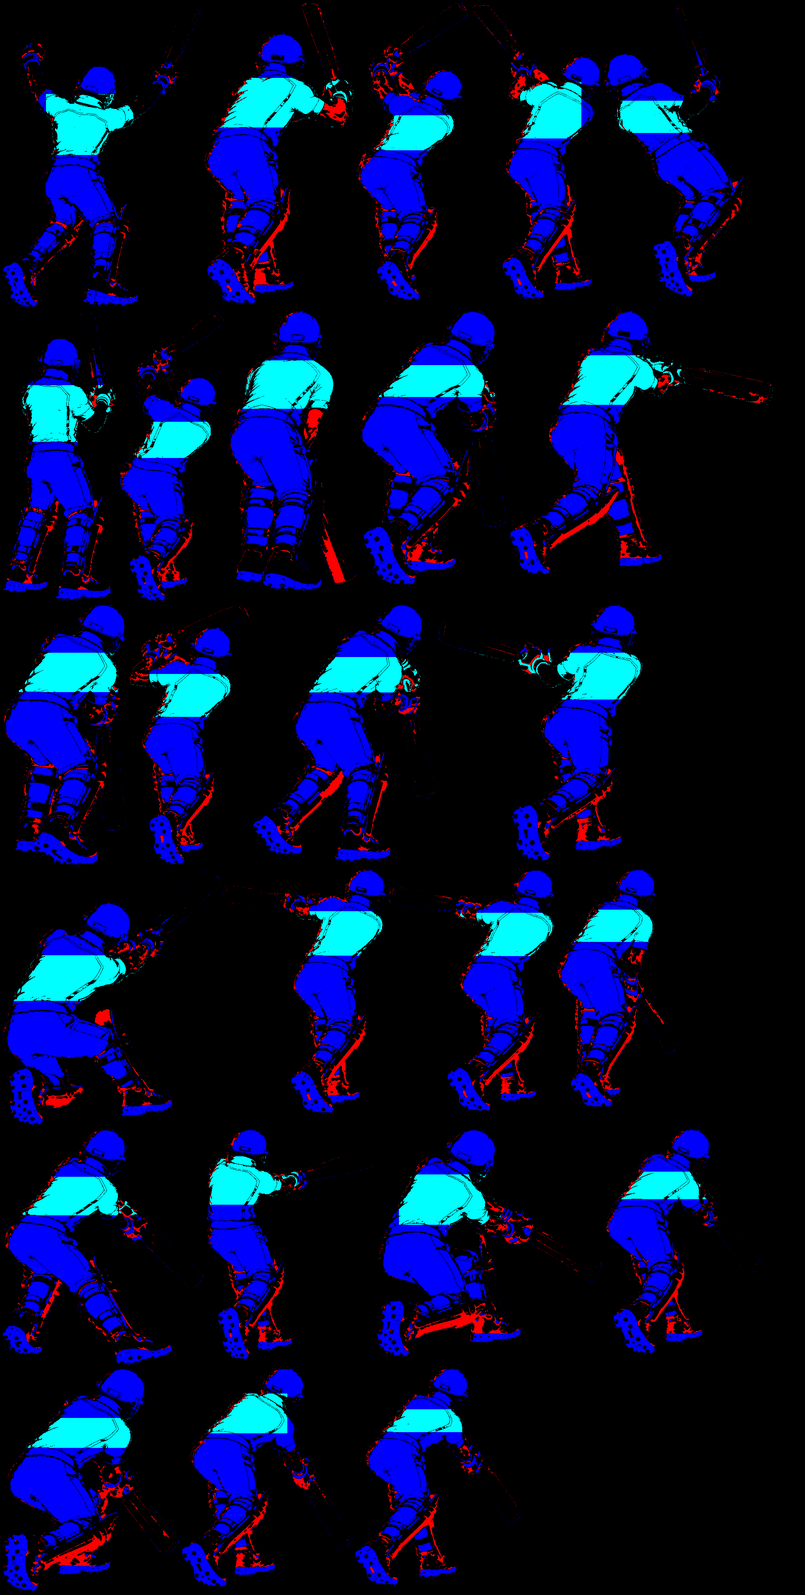
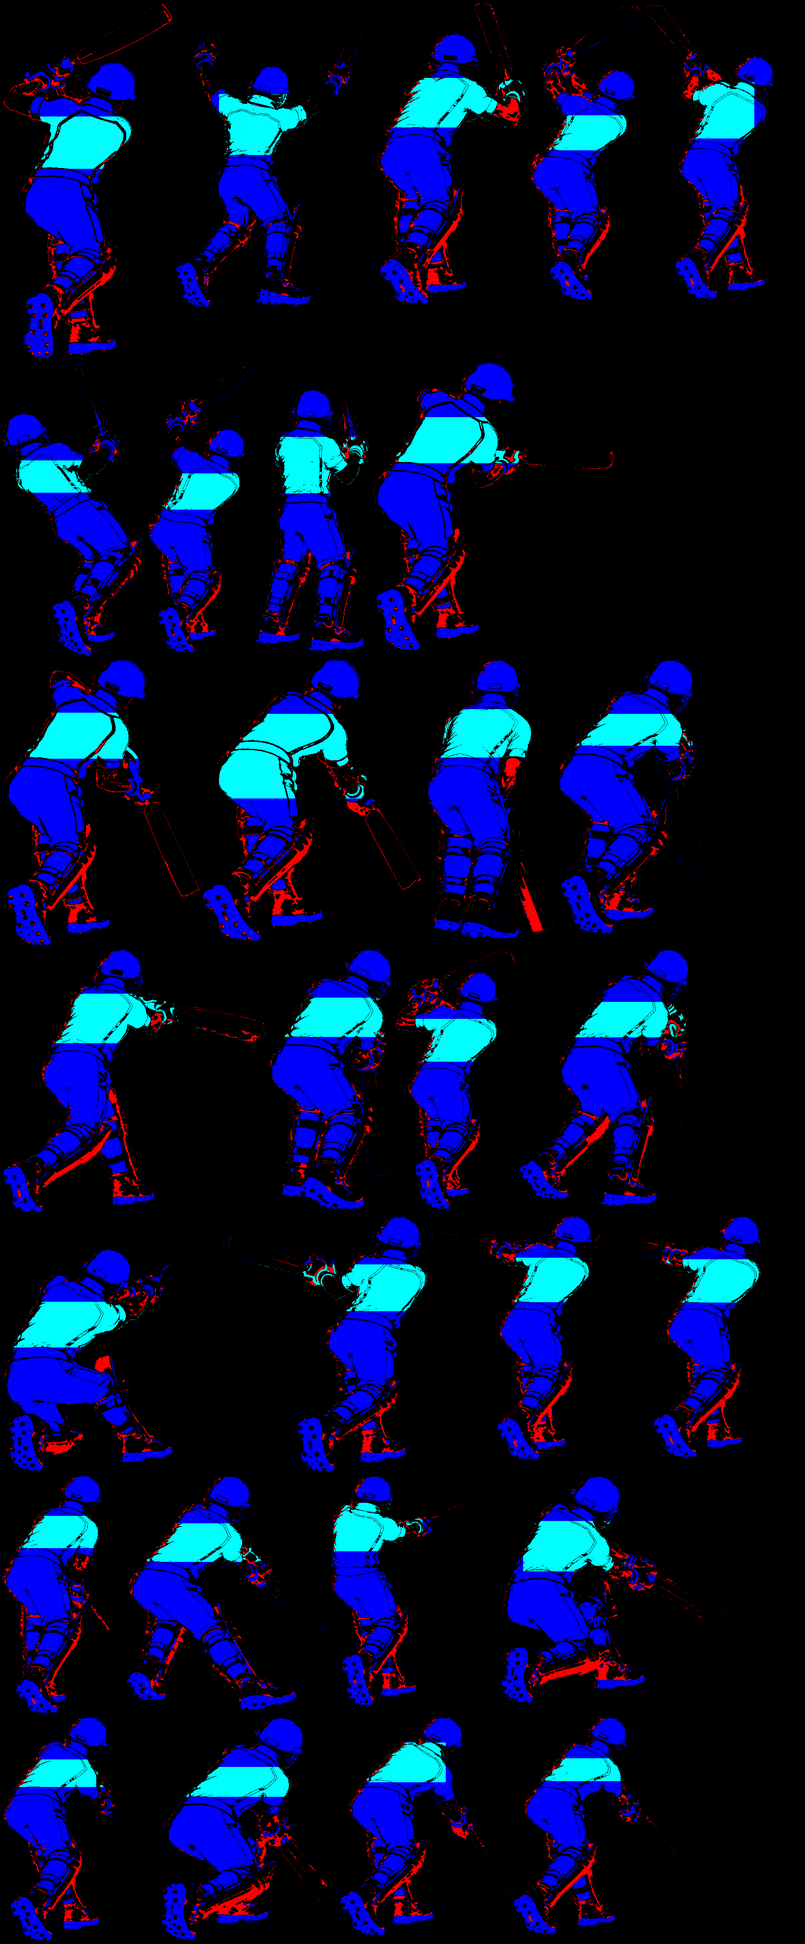
Batter: four new painted poses (off-side drive down/through/finish, flat cut) in the cover and cut swings
Claude-Session: https://claude.ai/code/session_01NK7tbrKg5PdA6fuyEUPXLd

diff --git a/js/kitsheets.js b/js/kitsheets.js
@@ -2,4 +2,4 @@
 // [x, y, w, h, feet x, feet y] in sheet order; place: the crest (front: [x, y, size, squash x,
 // squash y, tilt]) or the name-and-number print (back: [x, y, width, squash x, squash y, tilt,
 // name dx, dy, number dx, dy]) per frame; shading references for the repaint.
-export const KIT_SHEETS = {"front":{"frames":[[4,4,227,609,115.7,602],[235,4,204,603,108.5,596],[443,4,232,595,100.6,588],[679,4,181,601,90.4,594],[4,617,184,670,98.7,663],[192,617,204,657,107.8,650],[400,617,234,531,161.4,524],[638,617,200,532,104.9,525],[4,1291,201,557,90.7,550],[209,1291,216,579,105.9,572]],"place":[[153,167,36,1,1,0],[377,154,35,1,1,0],[591,154,35,1,1,0],[795,159,32,0.9,1,0],[142,863,31,0.95,1,5],[363,868,31,0.95,1,5],[549,761,34,1,0.85,0],[754,762,31,0.95,0.85,-5],[148,1439,35,1,1,0],[359,1454,36,1,1,0]],"refPx":580,"suit":[0.0376,0.2954,0.587],"trim":[0.5314,0.8456,0.9029],"skin":0.7306,"tones":[0.2955,0.2955,0.8423],"hair":{"beard_full":0.2269,"beard_goatee":0.1998,"beard_long":0.1906,"bun":0.2773,"buzz":0.2963,"cap":0.2815,"curly":0.2799,"dreads":0.2727,"long":0.2593,"messy":0.2999,"part":0.3383,"ponytail":0.2813,"spiky":0.2762},"size":[1024,1874]},"back":{"frames":[[4,4,223,593,111.2,586],[231,4,203,585,111.9,578],[438,4,226,585,125.1,578],[668,4,184,572,61.0,565],[4,601,172,628,61.9,621],[180,601,213,636,106.9,629],[397,601,240,538,146.8,531],[641,601,234,534,104.0,527],[4,1241,213,572,115.0,565],[221,1241,215,586,107.6,579]],"place":[[116.6,158.1,88.0,1.0,1.0,0.4,0,0,0,0],[343.2,149.0,88.0,1.0,1.0,0.8,0,0,0,0],[558.0,148.9,88.0,1.0,1.0,0.0,0,0,0,0],[738,149.2,84.5,0.88,1.0,2,-4,0,-2,0],[95.9,814.9,81.0,0.85,0.95,15.1,0,0,0,0],[306.5,801.6,81.0,0.85,0.95,10.9,0,0,0,0],[502,714.2,86.2,1.0,0.75,-6,0,0,0,0],[741,714.7,86.2,1.0,0.75,-6,0,0,0,0],[117.6,1385.2,88.0,1.0,1.0,0.4,0,0,0,0],[331.2,1393.8,89.8,1.0,1.0,0.8,0,0,0,0]],"refPx":563,"suit":[0.032,0.3087,0.5514],"trim":[0.5231,0.8489,0.9123],"skin":0.7332,"tones":[0.3087,0.3087,0.8455],"hair":{"bun":0.2553,"buzz":0.2918,"cap":0.2709,"curly":0.2702,"dreads":0.2718,"long":0.2647,"messy":0.2757,"part":0.2824,"ponytail":0.2667,"spiky":0.2812},"size":[1024,1831]},"spin-front":{"frames":[[4,4,182,471,90.8,464],[190,4,175,474,103.6,467],[369,4,172,473,91.2,466],[545,4,173,483,87.0,476],[722,4,165,515,62.2,508],[4,523,164,565,80.0,558],[172,523,152,564,71.3,544],[328,523,165,547,53.2,528],[497,523,255,478,85.7,461],[756,523,173,413,62.2,400],[4,1092,264,385,95.9,378],[272,1092,180,405,108.1,398],[456,1092,144,425,76.3,418],[604,1092,179,431,74.7,424],[787,1092,192,438,94.7,431]],"place":[[133,134,26,1,1,0],[324,133,24,1,1,0],[503,130,24,1,1,0],[663,127,24,1,1,0],[848,180,24,1,1,0],[145,711,22,0.9,1,0],[268,717,21,0.9,1,0],[456,715,21,0.9,1,0],[646,705,20,0.9,0.9,10],[872,632,20,0.9,0.85,0],[118,1191,19,0.9,0.85,0],[368,1192,21,1,0.9,0],[524,1199,22,1,0.95,0],[728,1206,26,1,1,0],[918,1204,26,1,1,0]],"refPx":441,"suit":[0.0299,0.3355,0.4715],"trim":[0.548,0.8593,0.9122],"skin":0.7273,"tones":[0.341,0.154,0.8608],"hair":{"beard_full":0.1972,"beard_goatee":0.2001,"beard_long":0.2064,"bun":0.2433,"buzz":0.241,"cap":0.2898,"curly":0.2653,"dreads":0.2535,"long":0.2468,"messy":0.2721,"part":0.2843,"ponytail":0.2781,"spiky":0.2609},"size":[1024,1534]},"spin-back":{"frames":[[4,4,205,533,100.3,526],[213,4,201,526,110.7,519],[418,4,214,510,122.2,503],[636,4,168,520,54.4,513],[808,4,157,568,64.3,561],[4,576,174,536,56.4,529],[182,576,168,528,67.2,521],[354,576,165,520,59.7,498],[523,576,204,489,64.8,467],[731,576,195,427,99.9,420],[4,1116,270,378,98.4,371],[278,1116,189,392,97.5,385],[471,1116,207,396,98.1,389],[682,1116,185,397,98.2,390],[4,1517,193,401,95.6,394]],"place":[[110,150,72.0,1,1,0,0,0,0,0],[326,138,72.0,1,1,0,0,0,0,0],[539,138,72.0,0.95,1,0,0,0,0,0],[711,141,72.0,0.95,1,11,0,0,0,0],[894,208,72.0,0.95,1,5,0,0,0,0],[100,760,72.0,0.95,1,10,0,0,0,0],[266,753,72.0,0.95,1,10,0,0,0,0],[451,742,72.0,0.95,0.95,18,0,0,0,0],[637,718,72.0,0.95,0.8,20,0,0,0,0],[853,677,72.0,0.95,0.8,12,0,0,0,0],[115,1188,72.0,1,0.7,-6,0,0,0,0],[362,1201,72.0,1,0.75,-10,0,0,0,0],[558,1210,72.0,1,0.85,-6,0,0,0,0],[773,1218,72.0,1,1,0,0,0,0,0],[104,1643,72.0,1,1,0,0,0,0,0]],"refPx":502,"suit":[0.0255,0.3304,0.4621],"trim":[0.5425,0.8472,0.9129],"skin":0.735,"tones":[0.3359,0.1507,0.8497],"hair":{"bun":0.2768,"buzz":0.2522,"cap":0.3009,"curly":0.2524,"dreads":0.3474,"long":0.2919,"messy":0.2526,"part":0.2321,"ponytail":0.2864,"spiky":0.2346},"size":[1024,1922]},"bat-back":{"frames":[[4,4,248,534,127.4,527],[256,4,291,536,114.4,529],[551,4,247,535,126.7,528],[802,4,283,538,117.1,531],[1089,4,237,534,113.5,527],[1330,4,310,635,102.2,628],[4,643,438,523,123.2,516],[446,643,394,523,242.9,516],[844,643,398,524,207.5,517],[1246,643,243,468,91.2,461],[1493,643,229,458,81.5,451],[1726,643,197,456,73.9,449],[4,1171,213,517,108.2,510],[221,1171,264,515,121.3,508],[489,1171,381,501,205.5,494],[874,1171,329,471,80.2,464],[1207,1171,201,510,95.2,503],[1412,1171,161,645,75.2,638],[1577,1171,302,505,119.4,498],[4,1820,340,405,92.8,398],[348,1820,373,419,82.2,412],[725,1820,235,523,91.4,516],[964,1820,195,665,107.2,658],[1163,1820,336,523,170.4,516],[1503,1820,388,542,201.0,535],[4,2489,364,523,108.1,516]],"place":[[110.5,145,87.2,1,1,16.3,0,0,0,0],[366.5,144,89.6,1,1,21.6,0,0,0,0],[660.0,146,86.4,1,1,17.1,0,0,0,0],[905.0,148,87.2,1,1,18.6,0,0,0,0],[1199.0,145,88.0,1,1,19.2,0,0,0,0],[1473.0,237,91.2,1,1,14.7,0,0,0,0],[157.0,762,93.6,1,1,3.2,0,0,0,0],[761.5,781,94.4,1,1,10.1,0,0,0,0],[1171.0,781,90.4,1,1,9.6,0,0,0,0],[1355.0,760,84.0,1,1,1.5,0,0,0,0],[1592.0,760,91.2,1,1,-0.9,0,0,0,0],[1815.0,767,96.0,1,1,3.4,0,0,0,0],[122.5,1293,85.6,1,1,16.8,0,0,0,0],[324.5,1303,96.8,1,1,4.1,0,0,0,0],[597.0,1301,95.2,1,1,8.8,0,0,0,0],[972.5,1302,96.0,1,1,7.3,0,0,0,0],[1324.5,1307,92.0,1,1,6.0,0,0,0,0],[1483.5,1450,92.0,1,1,1.6,0,0,0,0],[1760.5,1408,87.2,1,1,6.1,0,0,0,0],[114.0,1958,103.2,1,1,6.5,0,0,0,0],[504.5,1956,94.4,1,1,-0.9,0,0,0,0],[824.5,1941,94.4,1,1,7.8,0,0,0,0],[1083.5,2081,88.0,1,1,9.2,0,0,0,0],[1261.5,1955,98.4,1,1,11.6,0,0,0,0],[1822.0,1972,83.2,1,1,11.6,0,0,0,0],[88.0,2611,92.0,1,1,0.4,0,0,0,0]],"refPx":522,"suit":[0.0269,0.3529,0.5925],"trim":[0.5451,0.8592,0.9209],"skin":0.6414,"tones":[0.3586,0.2,0.8608],"hair":{},"size":[2048,3016]},"field":{"frames":[[4,4,425,453,214.6,446],[433,4,376,459,180.8,452],[813,4,407,455,200.5,448],[1224,4,294,543,132.5,536],[1522,4,266,555,119.8,548],[4,563,282,545,146.0,538],[290,563,323,540,153.3,533],[617,563,416,478,255.7,471],[1037,563,399,471,239.2,464],[1440,563,416,479,226.6,472],[4,1112,498,472,240.3,465],[506,1112,334,461,194.5,454],[844,1112,389,467,201.6,460],[1237,1112,290,468,134.9,461],[1531,1112,237,468,118.4,461],[4,1588,331,343,227.7,336],[339,1588,473,278,360.6,271],[816,1588,480,172,199.7,165],[1300,1588,337,172,238.3,165],[4,1935,444,498,209.6,491],[452,1935,293,588,174.3,581],[749,1935,424,503,212.8,496],[1177,1935,325,396,172.6,389],[1506,1935,354,418,177.7,411],[4,2527,358,410,163.6,403],[366,2527,433,269,300.7,262],[803,2527,313,384,165.7,377],[1120,2527,314,393,165.6,386],[1438,2527,418,382,217.0,375],[4,2941,455,291,300.0,284],[463,2941,279,574,142.6,567],[746,2941,283,525,142.6,518],[1033,2941,330,573,155.7,566],[1367,2941,288,573,148.0,566],[1659,2941,234,574,118.0,567],[4,3519,232,571,109.8,564],[240,3519,219,572,103.9,565],[463,3519,236,568,117.4,561],[703,3519,228,575,111.3,568],[935,3519,240,570,118.5,563],[1179,3519,238,570,119.8,563],[1421,3519,223,572,107.1,565]],"place":[[10,10,0,1,1,0,0,0,0,0],[439,10,0,1,1,0,0,0,0,0],[1017.0,139,100.8,1,1,1.9,0,0,0,0],[1394.5,134,101.6,1,1,22.4,0,0,0,0],[1652.0,138,104.0,1,1,11.0,0,0,0,0],[174.0,696,97.6,1,1,7.0,0,0,0,0],[458.5,691,98.4,1,1,11.3,0,0,0,0],[623,569,0,1,1,0,0,0,0,0],[1043,569,0,1,1,0,0,0,0,0],[1446,569,0,1,1,0,0,0,0,0],[10,1118,0,1,1,0,0,0,0,0],[512,1118,0,1,1,0,0,0,0,0],[850,1117,0,1,1,0,0,0,0,0],[1405.0,1231,90.4,1,1,15.0,0,0,0,0],[1673.0,1223,85.6,1,1,3.9,0,0,0,0],[10,1594,0,1,1,0,0,0,0,0],[345,1594,0,1,1,0,0,0,0,0],[822,1594,0,1,1,0,0,0,0,0],[1306,1594,0,1,1,0,0,0,0,0],[10,1941,0,1,1,0,0,0,0,0],[458,1941,0,1,1,0,0,0,0,0],[755,1941,0,1,1,0,0,0,0,0],[1183,1941,0,1,1,0,0,0,0,0],[1512,1941,0,1,1,0,0,0,0,0],[10,2533,0,1,1,0,0,0,0,0],[372,2533,0,1,1,0,0,0,0,0],[973.5,2643,76.8,1,1,1.8,0,0,0,0],[1296.5,2644,77.6,1,1,8.0,0,0,0,0],[1690.0,2629,61.6,1,1,16.7,0,0,0,0],[10,2947,0,1,1,0,0,0,0,0],[469,2947,0,1,1,0,0,0,0,0],[752,2947,0,1,1,0,0,0,0,0],[1039,2947,0,1,1,0,0,0,0,0],[1373,2947,0,1,1,0,0,0,0,0],[1665,2947,0,1,1,0,0,0,0,0],[10,3525,0,1,1,0,0,0,0,0],[246,3525,0,1,1,0,0,0,0,0],[469,3525,0,1,1,0,0,0,0,0],[709,3525,0,1,1,0,0,0,0,0],[941,3525,0,1,1,0,0,0,0,0],[1185,3525,0,1,1,0,0,0,0,0],[1427,3525,0,1,1,0,0,0,0,0]],"refPx":441,"suit":[0.0644,0.3368,0.6113],"trim":[0.5563,0.8516,0.9209],"skin":0.7707,"tones":[0.3422,0.2038,0.8539],"hair":{},"size":[2048,4098]},"bat-paint":{"frames":[[517,6,383,768,104.4,759.3],[1535,6,363,749,196.1,740.5],[6,789,290,740,166.7,731.6],[327,1535,309,663,110.5,655.4],[903,3476,423,554,93.0,547.5],[906,6,288,759,123.8,749.4],[1539,2869,397,572,93.0,565.3],[302,789,268,740,87.6,731.6],[988,2209,423,617,231.8,608.8],[1200,6,329,754,180.4,745.5],[1417,2209,310,607,103.3,599.9],[567,2209,415,622,247.8,614.8],[1115,1535,519,654,269.9,645.5],[913,789,377,702,99.8,694.0],[6,1535,315,668,181.6,659.3],[642,1535,467,659,242.0,651.4],[6,2869,512,601,324.2,594.0],[462,3476,435,558,77.9,551.4],[1296,789,671,672,148.8,664.3],[524,2869,428,587,91.8,580.1],[6,3476,450,572,56.9,565.3],[958,2869,575,581,50.2,573.2],[6,2209,555,654,126.1,644.5],[6,6,505,777,201.6,766.2],[576,789,331,714,169.3,705.9]],"place":[[692.0,261.0,69.1,1,1,1.8,0,0,0,0],[1653.5,297.0,52.6,1,1,-2.0,0,0,0,0],[145.0,1051.0,51.8,1,1,1.0,0,0,0,0],[487.5,1767.5,54.0,1,1,1.2,0,0,0,0],[1087.0,3611.0,56.2,1,1,3.7,0,0,0,0],[1060.5,337.5,51.1,1,1,1.6,0,0,0,0],[1691.5,3013.0,58.3,1,1,2.3,0,0,0,0],[446.5,1118.0,49.7,1,1,1.1,0,0,0,0],[1309.5,2375.0,54.0,1,1,1.0,0,0,0,0],[1409.5,280.5,46.8,1,1,-1.0,0,0,0,0],[1572.5,2353.0,56.9,1,1,2.2,0,0,0,0],[879.0,2372.5,50.4,1,1,1.3,0,0,0,0],[1522.5,1718.5,62.6,1,1,-0.4,0,0,0,0],[1116.0,968.5,80.6,1,1,4.7,0,0,0,0],[186.0,1709.0,72.0,1,1,2.7,0,0,0,0],[922.0,1715.0,74.9,1,1,2.5,0,0,0,0],[198.5,3040.0,68.4,1,1,4.0,0,0,0,0],[651.0,3592.5,51.8,1,1,2.3,0,0,0,0],[1557.0,966.0,66.2,1,1,1.7,0,0,0,0],[609.0,3000.5,49.0,1,1,2.1,0,0,0,0],[218.5,3642.0,75.6,1,1,3.5,0,0,0,0],[1123.0,3049.0,66.2,1,1,1.7,0,0,0,0],[174.5,2486.0,74.2,1,1,3.0,0,0,0,0],[210.0,316.5,56.2,1,1,2.4,0,0,0,0],[737.0,977.5,67.7,1,1,1.9,0,0,0,0]],"names":{"backlift":0,"leave1":1,"leave2":2,"drive1":3,"drive2":4,"drive3":5,"straight1":6,"straight2":7,"ondrive1":8,"ondrive2":9,"cover1":10,"pull1":11,"pull2":12,"def1":13,"def2":14,"def3":15,"cut1":16,"cut2":17,"cut3":18,"cut4":19,"rsweep1":20,"rsweep2":21,"rsweep3":22,"celebrate":23,"ready":24},"refPx":705.4,"suit":[0.0269,0.3529,0.5925],"trim":[0.5451,0.8592,0.9209],"skin":0.6653,"tones":[0.3183,0.15915,0.8514],"hair":{},"size":[2048,4054],"hsv":[[216.5858,0.9949,0.8784],[216.5858,0.9949,0.8784],[56.0785,0.9882,0.9882]]}};
+export const KIT_SHEETS = {"front":{"frames":[[4,4,227,609,115.7,602],[235,4,204,603,108.5,596],[443,4,232,595,100.6,588],[679,4,181,601,90.4,594],[4,617,184,670,98.7,663],[192,617,204,657,107.8,650],[400,617,234,531,161.4,524],[638,617,200,532,104.9,525],[4,1291,201,557,90.7,550],[209,1291,216,579,105.9,572]],"place":[[153,167,36,1,1,0],[377,154,35,1,1,0],[591,154,35,1,1,0],[795,159,32,0.9,1,0],[142,863,31,0.95,1,5],[363,868,31,0.95,1,5],[549,761,34,1,0.85,0],[754,762,31,0.95,0.85,-5],[148,1439,35,1,1,0],[359,1454,36,1,1,0]],"refPx":580,"suit":[0.0376,0.2954,0.587],"trim":[0.5314,0.8456,0.9029],"skin":0.7306,"tones":[0.2955,0.2955,0.8423],"hair":{"beard_full":0.2269,"beard_goatee":0.1998,"beard_long":0.1906,"bun":0.2773,"buzz":0.2963,"cap":0.2815,"curly":0.2799,"dreads":0.2727,"long":0.2593,"messy":0.2999,"part":0.3383,"ponytail":0.2813,"spiky":0.2762},"size":[1024,1874]},"back":{"frames":[[4,4,223,593,111.2,586],[231,4,203,585,111.9,578],[438,4,226,585,125.1,578],[668,4,184,572,61.0,565],[4,601,172,628,61.9,621],[180,601,213,636,106.9,629],[397,601,240,538,146.8,531],[641,601,234,534,104.0,527],[4,1241,213,572,115.0,565],[221,1241,215,586,107.6,579]],"place":[[116.6,158.1,88.0,1.0,1.0,0.4,0,0,0,0],[343.2,149.0,88.0,1.0,1.0,0.8,0,0,0,0],[558.0,148.9,88.0,1.0,1.0,0.0,0,0,0,0],[738,149.2,84.5,0.88,1.0,2,-4,0,-2,0],[95.9,814.9,81.0,0.85,0.95,15.1,0,0,0,0],[306.5,801.6,81.0,0.85,0.95,10.9,0,0,0,0],[502,714.2,86.2,1.0,0.75,-6,0,0,0,0],[741,714.7,86.2,1.0,0.75,-6,0,0,0,0],[117.6,1385.2,88.0,1.0,1.0,0.4,0,0,0,0],[331.2,1393.8,89.8,1.0,1.0,0.8,0,0,0,0]],"refPx":563,"suit":[0.032,0.3087,0.5514],"trim":[0.5231,0.8489,0.9123],"skin":0.7332,"tones":[0.3087,0.3087,0.8455],"hair":{"bun":0.2553,"buzz":0.2918,"cap":0.2709,"curly":0.2702,"dreads":0.2718,"long":0.2647,"messy":0.2757,"part":0.2824,"ponytail":0.2667,"spiky":0.2812},"size":[1024,1831]},"spin-front":{"frames":[[4,4,182,471,90.8,464],[190,4,175,474,103.6,467],[369,4,172,473,91.2,466],[545,4,173,483,87.0,476],[722,4,165,515,62.2,508],[4,523,164,565,80.0,558],[172,523,152,564,71.3,544],[328,523,165,547,53.2,528],[497,523,255,478,85.7,461],[756,523,173,413,62.2,400],[4,1092,264,385,95.9,378],[272,1092,180,405,108.1,398],[456,1092,144,425,76.3,418],[604,1092,179,431,74.7,424],[787,1092,192,438,94.7,431]],"place":[[133,134,26,1,1,0],[324,133,24,1,1,0],[503,130,24,1,1,0],[663,127,24,1,1,0],[848,180,24,1,1,0],[145,711,22,0.9,1,0],[268,717,21,0.9,1,0],[456,715,21,0.9,1,0],[646,705,20,0.9,0.9,10],[872,632,20,0.9,0.85,0],[118,1191,19,0.9,0.85,0],[368,1192,21,1,0.9,0],[524,1199,22,1,0.95,0],[728,1206,26,1,1,0],[918,1204,26,1,1,0]],"refPx":441,"suit":[0.0299,0.3355,0.4715],"trim":[0.548,0.8593,0.9122],"skin":0.7273,"tones":[0.341,0.154,0.8608],"hair":{"beard_full":0.1972,"beard_goatee":0.2001,"beard_long":0.2064,"bun":0.2433,"buzz":0.241,"cap":0.2898,"curly":0.2653,"dreads":0.2535,"long":0.2468,"messy":0.2721,"part":0.2843,"ponytail":0.2781,"spiky":0.2609},"size":[1024,1534]},"spin-back":{"frames":[[4,4,205,533,100.3,526],[213,4,201,526,110.7,519],[418,4,214,510,122.2,503],[636,4,168,520,54.4,513],[808,4,157,568,64.3,561],[4,576,174,536,56.4,529],[182,576,168,528,67.2,521],[354,576,165,520,59.7,498],[523,576,204,489,64.8,467],[731,576,195,427,99.9,420],[4,1116,270,378,98.4,371],[278,1116,189,392,97.5,385],[471,1116,207,396,98.1,389],[682,1116,185,397,98.2,390],[4,1517,193,401,95.6,394]],"place":[[110,150,72.0,1,1,0,0,0,0,0],[326,138,72.0,1,1,0,0,0,0,0],[539,138,72.0,0.95,1,0,0,0,0,0],[711,141,72.0,0.95,1,11,0,0,0,0],[894,208,72.0,0.95,1,5,0,0,0,0],[100,760,72.0,0.95,1,10,0,0,0,0],[266,753,72.0,0.95,1,10,0,0,0,0],[451,742,72.0,0.95,0.95,18,0,0,0,0],[637,718,72.0,0.95,0.8,20,0,0,0,0],[853,677,72.0,0.95,0.8,12,0,0,0,0],[115,1188,72.0,1,0.7,-6,0,0,0,0],[362,1201,72.0,1,0.75,-10,0,0,0,0],[558,1210,72.0,1,0.85,-6,0,0,0,0],[773,1218,72.0,1,1,0,0,0,0,0],[104,1643,72.0,1,1,0,0,0,0,0]],"refPx":502,"suit":[0.0255,0.3304,0.4621],"trim":[0.5425,0.8472,0.9129],"skin":0.735,"tones":[0.3359,0.1507,0.8497],"hair":{"bun":0.2768,"buzz":0.2522,"cap":0.3009,"curly":0.2524,"dreads":0.3474,"long":0.2919,"messy":0.2526,"part":0.2321,"ponytail":0.2864,"spiky":0.2346},"size":[1024,1922]},"bat-back":{"frames":[[4,4,248,534,127.4,527],[256,4,291,536,114.4,529],[551,4,247,535,126.7,528],[802,4,283,538,117.1,531],[1089,4,237,534,113.5,527],[1330,4,310,635,102.2,628],[4,643,438,523,123.2,516],[446,643,394,523,242.9,516],[844,643,398,524,207.5,517],[1246,643,243,468,91.2,461],[1493,643,229,458,81.5,451],[1726,643,197,456,73.9,449],[4,1171,213,517,108.2,510],[221,1171,264,515,121.3,508],[489,1171,381,501,205.5,494],[874,1171,329,471,80.2,464],[1207,1171,201,510,95.2,503],[1412,1171,161,645,75.2,638],[1577,1171,302,505,119.4,498],[4,1820,340,405,92.8,398],[348,1820,373,419,82.2,412],[725,1820,235,523,91.4,516],[964,1820,195,665,107.2,658],[1163,1820,336,523,170.4,516],[1503,1820,388,542,201.0,535],[4,2489,364,523,108.1,516]],"place":[[110.5,145,87.2,1,1,16.3,0,0,0,0],[366.5,144,89.6,1,1,21.6,0,0,0,0],[660.0,146,86.4,1,1,17.1,0,0,0,0],[905.0,148,87.2,1,1,18.6,0,0,0,0],[1199.0,145,88.0,1,1,19.2,0,0,0,0],[1473.0,237,91.2,1,1,14.7,0,0,0,0],[157.0,762,93.6,1,1,3.2,0,0,0,0],[761.5,781,94.4,1,1,10.1,0,0,0,0],[1171.0,781,90.4,1,1,9.6,0,0,0,0],[1355.0,760,84.0,1,1,1.5,0,0,0,0],[1592.0,760,91.2,1,1,-0.9,0,0,0,0],[1815.0,767,96.0,1,1,3.4,0,0,0,0],[122.5,1293,85.6,1,1,16.8,0,0,0,0],[324.5,1303,96.8,1,1,4.1,0,0,0,0],[597.0,1301,95.2,1,1,8.8,0,0,0,0],[972.5,1302,96.0,1,1,7.3,0,0,0,0],[1324.5,1307,92.0,1,1,6.0,0,0,0,0],[1483.5,1450,92.0,1,1,1.6,0,0,0,0],[1760.5,1408,87.2,1,1,6.1,0,0,0,0],[114.0,1958,103.2,1,1,6.5,0,0,0,0],[504.5,1956,94.4,1,1,-0.9,0,0,0,0],[824.5,1941,94.4,1,1,7.8,0,0,0,0],[1083.5,2081,88.0,1,1,9.2,0,0,0,0],[1261.5,1955,98.4,1,1,11.6,0,0,0,0],[1822.0,1972,83.2,1,1,11.6,0,0,0,0],[88.0,2611,92.0,1,1,0.4,0,0,0,0]],"refPx":522,"suit":[0.0269,0.3529,0.5925],"trim":[0.5451,0.8592,0.9209],"skin":0.6414,"tones":[0.3586,0.2,0.8608],"hair":{},"size":[2048,3016]},"field":{"frames":[[4,4,425,453,214.6,446],[433,4,376,459,180.8,452],[813,4,407,455,200.5,448],[1224,4,294,543,132.5,536],[1522,4,266,555,119.8,548],[4,563,282,545,146.0,538],[290,563,323,540,153.3,533],[617,563,416,478,255.7,471],[1037,563,399,471,239.2,464],[1440,563,416,479,226.6,472],[4,1112,498,472,240.3,465],[506,1112,334,461,194.5,454],[844,1112,389,467,201.6,460],[1237,1112,290,468,134.9,461],[1531,1112,237,468,118.4,461],[4,1588,331,343,227.7,336],[339,1588,473,278,360.6,271],[816,1588,480,172,199.7,165],[1300,1588,337,172,238.3,165],[4,1935,444,498,209.6,491],[452,1935,293,588,174.3,581],[749,1935,424,503,212.8,496],[1177,1935,325,396,172.6,389],[1506,1935,354,418,177.7,411],[4,2527,358,410,163.6,403],[366,2527,433,269,300.7,262],[803,2527,313,384,165.7,377],[1120,2527,314,393,165.6,386],[1438,2527,418,382,217.0,375],[4,2941,455,291,300.0,284],[463,2941,279,574,142.6,567],[746,2941,283,525,142.6,518],[1033,2941,330,573,155.7,566],[1367,2941,288,573,148.0,566],[1659,2941,234,574,118.0,567],[4,3519,232,571,109.8,564],[240,3519,219,572,103.9,565],[463,3519,236,568,117.4,561],[703,3519,228,575,111.3,568],[935,3519,240,570,118.5,563],[1179,3519,238,570,119.8,563],[1421,3519,223,572,107.1,565]],"place":[[10,10,0,1,1,0,0,0,0,0],[439,10,0,1,1,0,0,0,0,0],[1017.0,139,100.8,1,1,1.9,0,0,0,0],[1394.5,134,101.6,1,1,22.4,0,0,0,0],[1652.0,138,104.0,1,1,11.0,0,0,0,0],[174.0,696,97.6,1,1,7.0,0,0,0,0],[458.5,691,98.4,1,1,11.3,0,0,0,0],[623,569,0,1,1,0,0,0,0,0],[1043,569,0,1,1,0,0,0,0,0],[1446,569,0,1,1,0,0,0,0,0],[10,1118,0,1,1,0,0,0,0,0],[512,1118,0,1,1,0,0,0,0,0],[850,1117,0,1,1,0,0,0,0,0],[1405.0,1231,90.4,1,1,15.0,0,0,0,0],[1673.0,1223,85.6,1,1,3.9,0,0,0,0],[10,1594,0,1,1,0,0,0,0,0],[345,1594,0,1,1,0,0,0,0,0],[822,1594,0,1,1,0,0,0,0,0],[1306,1594,0,1,1,0,0,0,0,0],[10,1941,0,1,1,0,0,0,0,0],[458,1941,0,1,1,0,0,0,0,0],[755,1941,0,1,1,0,0,0,0,0],[1183,1941,0,1,1,0,0,0,0,0],[1512,1941,0,1,1,0,0,0,0,0],[10,2533,0,1,1,0,0,0,0,0],[372,2533,0,1,1,0,0,0,0,0],[973.5,2643,76.8,1,1,1.8,0,0,0,0],[1296.5,2644,77.6,1,1,8.0,0,0,0,0],[1690.0,2629,61.6,1,1,16.7,0,0,0,0],[10,2947,0,1,1,0,0,0,0,0],[469,2947,0,1,1,0,0,0,0,0],[752,2947,0,1,1,0,0,0,0,0],[1039,2947,0,1,1,0,0,0,0,0],[1373,2947,0,1,1,0,0,0,0,0],[1665,2947,0,1,1,0,0,0,0,0],[10,3525,0,1,1,0,0,0,0,0],[246,3525,0,1,1,0,0,0,0,0],[469,3525,0,1,1,0,0,0,0,0],[709,3525,0,1,1,0,0,0,0,0],[941,3525,0,1,1,0,0,0,0,0],[1185,3525,0,1,1,0,0,0,0,0],[1427,3525,0,1,1,0,0,0,0,0]],"refPx":441,"suit":[0.0644,0.3368,0.6113],"trim":[0.5563,0.8516,0.9209],"skin":0.7707,"tones":[0.3422,0.2038,0.8539],"hair":{},"size":[2048,4098]},"bat-paint":{"frames":[[957,6,383,768,104.4,759.3],[6,920,363,749,196.1,740.5],[649,920,290,740,166.7,731.6],[1004,2411,309,663,110.5,655.4],[1306,4362,423,554,93.0,547.5],[1346,6,288,759,123.8,749.4],[6,4362,397,572,93.0,565.3],[375,920,268,740,87.6,731.6],[1513,3089,423,617,231.8,608.8],[1640,6,329,754,180.4,745.5],[6,3749,310,607,103.3,599.9],[1092,3089,415,622,247.8,614.8],[567,3089,519,654,269.9,645.5],[1416,1675,377,702,99.8,694.0],[683,2411,315,668,181.6,659.3],[1319,2411,467,659,242.0,651.4],[322,3749,512,601,324.2,594.0],[865,4362,435,558,77.9,551.4],[6,2411,671,672,148.8,664.3],[840,3749,428,587,91.8,580.1],[409,4362,450,572,56.9,565.3],[1274,3749,575,581,50.2,573.2],[6,3089,555,654,126.1,644.5],[446,6,505,777,201.6,766.2],[515,1675,558,718,100.1,708.8],[6,1675,503,730,92.1,720.7],[6,6,434,908,164.9,895.9],[945,920,618,735,93.6,724.6],[1079,1675,331,714,169.3,705.9]],"place":[[1132.0,261.0,69.1,1,1,1.8,0,0,0,0],[124.5,1211.0,52.6,1,1,-2.0,0,0,0,0],[788.0,1182.0,51.8,1,1,1.0,0,0,0,0],[1164.5,2643.5,54.0,1,1,1.2,0,0,0,0],[1489.6,4497.0,56.7,1,1,3.7,0,0,0,0],[1500.5,337.5,51.1,1,1,1.6,0,0,0,0],[158.5,4506.0,58.3,1,1,2.3,0,0,0,0],[519.5,1249.0,49.7,1,1,1.1,0,0,0,0],[1834.5,3255.0,54.0,1,1,1.0,0,0,0,0],[1849.5,280.5,46.8,1,1,-1.0,0,0,0,0],[161.5,3893.0,56.9,1,1,2.2,0,0,0,0],[1404.0,3252.5,50.4,1,1,1.3,0,0,0,0],[974.5,3272.5,62.6,1,1,-0.4,0,0,0,0],[1619.0,1854.5,80.6,1,1,4.8,0,0,0,0],[863.0,2585.0,72.0,1,1,2.7,0,0,0,0],[1598.9,2591.0,75.1,1,1,2.6,0,0,0,0],[514.5,3920.0,68.4,1,1,4.0,0,0,0,0],[1054.0,4478.5,51.8,1,1,2.3,0,0,0,0],[267.0,2588.0,66.2,1,1,1.7,0,0,0,0],[925.0,3880.5,49.0,1,1,2.1,0,0,0,0],[621.5,4528.0,75.6,1,1,3.6,0,0,0,0],[1439.0,3929.0,66.2,1,1,1.7,0,0,0,0],[174.5,3366.0,74.2,1,1,3.0,0,0,0,0],[650.0,316.5,56.2,1,1,2.4,0,0,0,0],[710.0,1921.5,90.7,1,1,8.7,0,0,0,0],[211.5,1869.5,74.2,1,1,3.5,0,0,0,0],[212.5,362.5,62.6,1,1,1.4,0,0,0,0],[1153.0,1118.5,77.8,1,1,2.9,0,0,0,0],[1240.0,1863.5,67.7,1,1,1.9,0,0,0,0]],"names":{"backlift":0,"leave1":1,"leave2":2,"drive1":3,"drive2":4,"drive3":5,"straight1":6,"straight2":7,"ondrive1":8,"ondrive2":9,"cover1":10,"pull1":11,"pull2":12,"def1":13,"def2":14,"def3":15,"cut1":16,"cut2":17,"cut3":18,"cut4":19,"rsweep1":20,"rsweep2":21,"rsweep3":22,"celebrate":23,"cover0":24,"cover2":25,"cover3":26,"cutflat":27,"ready":28},"refPx":705.4,"suit":[0.0269,0.3529,0.5925],"trim":[0.5451,0.8592,0.9209],"skin":0.6547,"tones":[0.3154,0.1577,0.8494],"hair":{},"size":[2048,4940],"hsv":[[216.4486,0.9944,0.8589],[216.4486,0.9944,0.8589],[55.8808,0.9881,0.9882]]}};

diff --git a/js/batsprite.js b/js/batsprite.js
@@ -32,7 +32,7 @@ const FRAMES = {
 };
 
 // the frames the kit sheet has and the old per-team sheets (and the batter seen from the front) don't
-export const OLD_FRAME = { cut4: 'cut3', rsweep1: 'cut1', rsweep2: 'cut2', rsweep3: 'cut3', cover1: 'drive2', straight1: 'drive2', straight2: 'drive3', ondrive1: 'drive2', ondrive2: 'drive3' };
+export const OLD_FRAME = { cut4: 'cut3', rsweep1: 'cut1', rsweep2: 'cut2', rsweep3: 'cut3', cover1: 'drive2', straight1: 'drive2', straight2: 'drive3', ondrive1: 'drive2', ondrive2: 'drive3', cover0: 'drive2', cover2: 'drive2', cover3: 'drive3', cutflat: 'cut2' };
 
 // frame, ms on screen. The swing starts when the finger lifts, which is the moment of contact,
 // so the downswing is brief and the contact frame lands almost at once.
@@ -40,9 +40,9 @@ const SEQ = {
   drive: [['drive1', 25], ['drive2', 35], ['drive3', Infinity]],
   ondrive: [['ondrive1', 160], ['ondrive2', Infinity]], // through the ball, round to the leg side
   straight: [['straight1', 160], ['straight2', Infinity]], // bat through the line, high finish
-  cover: [['cover1', Infinity]], // bat through the off side
+  cover: [['cover0', 30], ['cover2', 40], ['cover3', Infinity]], // down, through the ball, high finish: off side
   pull: [['pull1', 150], ['pull2', Infinity]], // swung across to leg, through
-  cut: [['cut1', 25], ['cut2', 30], ['cut3', 100], ['cut4', Infinity]],
+  cut: [['cut1', 25], ['cutflat', 30], ['cut3', 100], ['cut4', Infinity]],
   rsweep: [['rsweep1', 60], ['rsweep2', 130], ['rsweep3', Infinity]], // down on one knee, swept fine on the off side
   block: [['def1', Infinity]],   // (one pose: the bat grounded in front of him, no extra move)
   leave: [['leave1', 170], ['leave2', Infinity]],

diff --git a/tools/build_bat_paint.py b/tools/build_bat_paint.py
@@ -22,6 +22,7 @@ G = 0.85                                  # the whole set's size (1.0 = the stan
 READY_SCALE = 840 / 1575 * G              # the stance (its source figure is 1575 px tall)
 SCALE = {'464df84f': 1.10 * G, 'f628f0f7': 1.10 * G}   # sheets drawn on the wide canvas; every other sheet is on the 1536 x 1024 canvas
 DEFAULT_SCALE = 0.94 * G
+SCALE.update({'c0v1drv1': 0.81 * G, 'c0v2cut1': 0.81 * G})   # (the 2576 x 1438 sheets)
 DIL = {'f628f0f7': 2}                     # (its figures kneel close together: a small gap between them)
 FRAMES = {
     'backlift': ('464df84f', 1), 'leave1': ('2965e2d6', 0), 'leave2': ('2965e2d6', 1),
@@ -30,6 +31,7 @@ FRAMES = {
     'pull1': ('2236f518', 0), 'pull2': ('b506964d', 0), 'def1': ('df0bc565', 0), 'def2': ('df0bc565', 1), 'def3': ('c3007d6e', 1),
     'cut1': ('b506964d', 1), 'cut2': ('54ab15c9', 0), 'cut3': ('464df84f', 2), 'cut4': ('f1c2ccd0', 1),
     'rsweep1': ('f628f0f7', 0), 'rsweep2': ('f628f0f7', 1), 'rsweep3': ('f628f0f7', 2), 'celebrate': ('efc0e85c', 0),
+    'cover0': ('c0v1drv1', 0), 'cover2': ('c0v1drv1', 1), 'cover3': ('c0v1drv1', 2), 'cutflat': ('c0v2cut1', 1),
 }
 READY = 'tools/kit/bat-ready-source.png'
 # where the shirt back is, for the poses the colours alone get wrong: (left, right, top, bottom) as fractions of the frame
